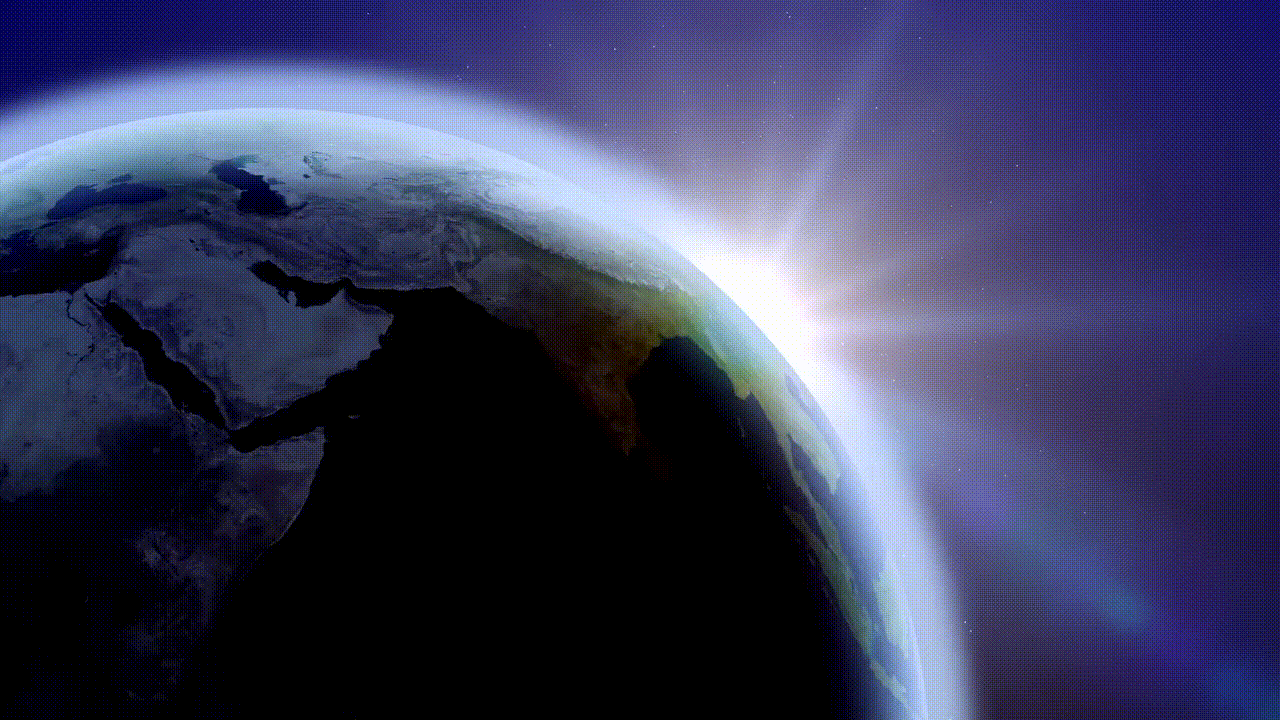
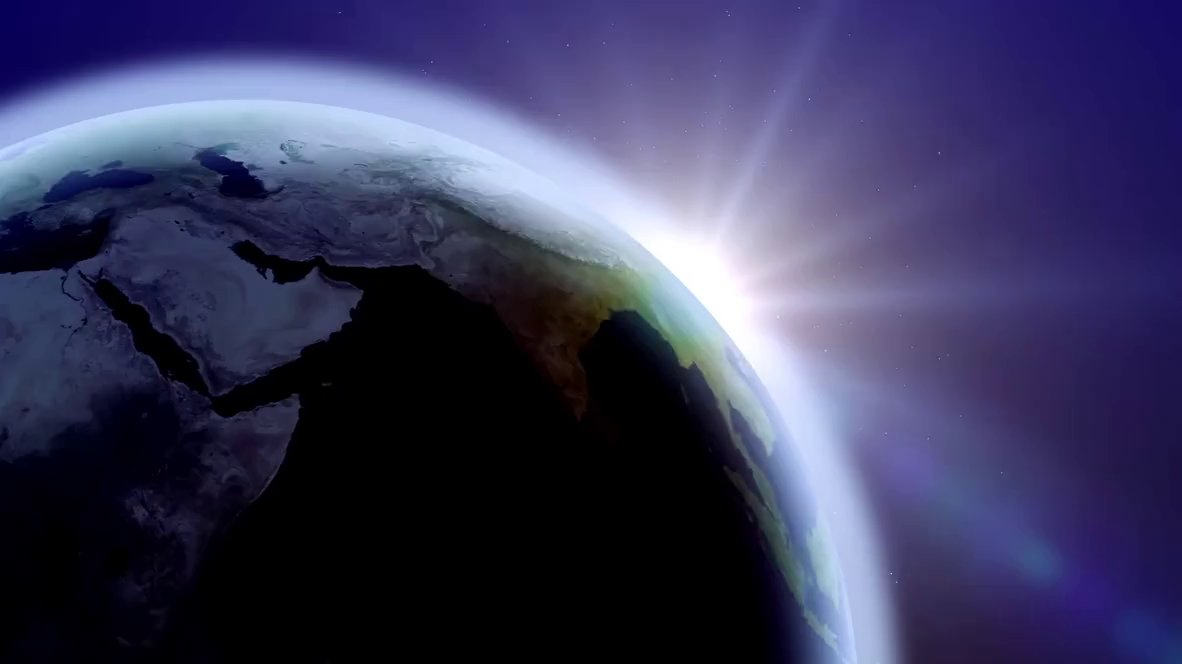
Add files via upload

diff --git a/data.js b/data.js
@@ -1,1 +1,1 @@
-{"project": [null,"Main Menu",[[0,true,false,false,false,false,false,false,false,false],[1,true,false,false,false,false,false,false,false,false],[2,true,false,false,false,false,false,false,false,false],[3,true,false,false,false,false,false,false,false,false],[4,true,false,false,false,false,false,false,false,false],[5,true,false,false,false,false,false,false,false,false],[6,false,true,true,true,false,false,false,false,false],[7,true,false,false,false,false,false,false,false,false],[8,false,true,true,true,true,true,true,true,false],[9,false,true,true,true,true,true,true,true,false],[10,false,true,true,true,false,false,false,false,false],[11,false,true,true,true,false,true,true,true,false],[12,true,false,false,false,false,false,false,false,false]],[["t0",8,false,[],0,1,null,[["Default",0,false,1,0,false,741092340785894,[["images/button-sheet0.png",587,1,1,190,49,1,0.5,0.5102040767669678,[],[],0],["images/button-sheet0.png",587,1,52,190,45,1,0.5,0.5111111402511597,[],[],0]]]],[],false,false,584967664289443,[["setcolor","SetColor"]],null],["t1",6,false,[],0,0,null,null,[],false,false,757775316178213,[],null],["t2",9,false,[],0,0,null,null,[],false,false,987185213327943,[],null],["t3",9,false,[],0,0,null,null,[],false,false,593391462758347,[],null],["t4",9,false,[],0,0,null,null,[],false,false,971201185744856,[],null],["t5",9,false,[],0,0,null,null,[],false,false,612195552797613,[],null],["t6",9,false,[],0,0,null,null,[],false,false,994427429284400,[],null],["t7",9,false,[],0,0,null,null,[],false,false,448144511183350,[],null],["t8",9,false,[],0,0,null,null,[],false,false,519139574354016,[],null],["t9",9,false,[],0,0,null,null,[],false,false,136965861650801,[],null],["t10",9,false,[],0,0,null,null,[],false,false,843298887735213,[],null],["t11",9,false,[],0,0,null,null,[],false,false,183655065565862,[],null],["t12",9,false,[],0,0,null,null,[],false,false,621512271099904,[],null],["t13",9,false,[],0,0,null,null,[],false,false,732458869924326,[],null],["t14",11,false,[],0,0,null,null,[],false,false,679916228430960,[],null],["t15",11,false,[],0,0,null,null,[],false,false,890391631155020,[],null],["t16",1,false,[],0,0,null,null,[],false,false,156296086548152,[],null,[0,0,0,1,1,600,600,10000,1]],["t17",7,false,[],0,0,null,null,[],false,false,377145541952307,[],null,[]],["t18",3,false,[],0,0,null,null,[],false,false,520424225427235,[],null,[]],["t19",2,false,[],0,0,null,null,[],false,false,197373338401167,[],null,[]],["t20",8,false,[],0,0,null,[["Default",5,false,1,0,false,895525082583206,[["images/menubackground-sheet0.png",11852,0,0,1280,1280,1,0.5,0.5,[],[-0.4945312440395355,-0.4945312440395355,0.4929689764976502,-0.492968738079071,0.4937499761581421,0.4937499761581421,-0.4937500059604645,0.4937499761581421],0]]]],[],false,false,562637304899072,[],null],["t21",10,false,[],0,0,null,null,[],false,false,296326276283547,[],null],["t22",10,false,[],0,0,null,null,[],false,false,385066265029369,[],null],["t23",8,false,[],0,0,null,[["Default",5,false,1,0,false,666810576614864,[["images/player-sheet0.png",64551,0,0,343,383,1,0.5014577507972717,0.5013054609298706,[],[-0.1107867658138275,-0.151436448097229,-0.002915740013122559,-0.3524804711341858,0.1341102719306946,-0.174934446811676,0.4198252558708191,-0.002610474824905396,0.387755274772644,0.3994775414466858,-0.002915740013122559,0.4203655123710632,-0.3673467636108398,0.3785905241966248,-0.4052478671073914,-0.002610474824905396],0]]]],[],false,false,775285204150088,[],null],["t24",8,false,[],0,0,null,[["Default",5,false,1,0,false,200995296118119,[["images/cursor-sheet0.png",1906,0,0,33,31,1,0.4848484992980957,0.4516128897666931,[],[-0.1060164868831635,-0.1549738943576813,-0.001413494348526001,-0.3625032007694244,0.1314594745635986,-0.1792298853397369,0.408516526222229,-0.001346886157989502,0.3774185180664063,0.4137111306190491,-0.001413494348526001,0.4352731108665466,-0.3548015058040619,0.3921511173248291,-0.3915541172027588,-0.001346886157989502],0]]]],[],false,false,493406556374796,[],null],["t25",9,false,[],0,2,null,null,[],false,false,149190345186834,[["glowhorizontal","GlowHorizontal"],["glowvertical","GlowVertical"]],null],["t26",8,false,[],0,0,null,[["Default",5,false,1,0,false,449500476032870,[["images/title-sheet0.png",18723,0,0,640,76,1,0.5,0.5,[],[-0.4742187857627869,-0.2828949987888336,0.4914060235023499,-0.4276316165924072,0.4914060235023499,0.4276319742202759,-0.5,0.5],0]]]],[],false,false,664850035557590,[],null],["t27",12,false,[],0,0,null,null,[],false,false,768069623347120,[],null,[0]],["t28",4,false,[],0,0,null,null,[],false,false,783837852095417,[],null,[]],["t29",5,false,[],0,0,null,null,[],false,false,342530095195853,[],null,[25]],["t30",0,false,[],0,0,null,null,[],false,false,254967698956649,[],null,[]],["t31",9,true,[],0,0,null,null,[],false,false,760463930764342,[],null],["t32",9,true,[],0,0,null,null,[],false,false,455207575529761,[],null],["t33",9,true,[],0,2,null,null,[],false,false,811197225495572,[["glowhorizontal","GlowHorizontal"],["glowvertical","GlowVertical"]],null]],[[31,2,10,11,7,8,9,3,12,4,5,6],[32,2,3,4,5],[33,10,12,6]],[["Main Menu",1280,720,false,"Main Menu Events",764398338772809,[["Video",0,681089752325442,true,[255,255,255],true,0,0,1,false,false,1,0,0,[[[0,0,0,1280,720,0,0,1,0,0,0,0,[]],14,0,[],[],["","","https://fpdl.vimeocdn.com/vimeo-prod-skyfire-std-us/01/1757/7/183786499/604916434.mp4?token=58474ed2_0x0756aaf1f1bb45634cfd53f62c5f16856a64c8d3",2,0,1]]],[]],["Buttons",1,502345996288287,true,[255,255,255],true,0,0,1,false,false,1,0,0,[[[150,393,0,190,49,0,0,1,0.5,0.5102040767669678,0,0,[[1,0,0]]],0,3,[],[],[0,"Default",0,1]],[[150,475,0,190,49,0,0,1,0.5,0.5102040767669678,0,0,[[1,0,0]]],0,5,[],[],[0,"Default",0,1]],[[150,561,0,190,49,0,0,1,0.5,0.5102040767669678,0,0,[[1,0,0]]],0,7,[],[],[0,"Default",0,1]],[[150,647,0,190,49,0,0,1,0.5,0.5102040767669678,0,0,[[0.5,0.5,0.5]]],0,8,[],[],[0,"Default",0,1]]],[]],["Button Text",2,212621257331432,true,[255,255,255],true,0,0,1,false,false,1,0,0,[[[150,392,0,194,48,0,0,1,0.5,0.5,0,0,[]],3,4,[],[],["PLAY",0,"18pt Arial","rgb(0,0,0)",1,1,4,0,0]],[[150,474.5,0,188,48,0,0,1,0.5,0.5,0,0,[]],5,6,[],[],["SETTINGS",0,"18pt Arial","rgb(0,0,0)",1,1,4,0,0]],[[150,561,0,189,46,0,0,1,0.5,0.5,0,0,[]],2,9,[],[],["CREDITS",0,"18pt Arial","rgb(0,0,0)",1,1,4,0,0]],[[150,647.5,0,188,47,0,0,1,0.5,0.5,0,0,[]],4,10,[],[],["QUIT",0,"18pt Arial","rgb(0,0,0)",1,1,4,0,0]]],[]],["Title",3,777833340380022,true,[255,255,255],true,0,0,1,false,false,1,0,0,[[[350,73,0,367.68408203125,43.66248321533203,0,0,1,0.5,0.5,0,0,[]],26,1,[],[],[0,"Default",0,1]]],[]],["Menu Background",4,867994166598679,false,[255,255,255],true,0,0,1,false,false,1,0,0,[[[761.947265625,362.5,0,986,667,0,0,1,0.5,0.5,0,0,[]],20,12,[],[],[0,"Default",0,1]]],[]],["Credits Buttons",5,536391325661122,false,[255,255,255],true,0,0,1,false,false,1,0,0,[],[]],["Credits Text",6,194548016113725,false,[255,255,255],true,0,0,1,false,false,1,0,0,[[[763.5,398.5,0,916,523,0,0,1,0.5,0.5,0,0,[]],8,19,[],[],["\"Unconquered Sun\" by The Freeharmonic Orchestra, from the Free Music Archive, CC BY 4.0",0,"18pt Arial","rgb(0,255,255)",0,0,4,0,0]],[[754,79.5,0,975,96,0,0,1,0.5,0.5,0,0,[[1],[1]]],10,20,[],[],["CREDITS",0,"48pt Arial","rgb(0,255,255)",1,1,4,0,0]]],[]],["Settings Buttons",7,560161867385217,false,[255,255,255],true,0,0,1,false,false,1,0,0,[[[826,134,0,401,38,0,0,1,0,0,0,0,[]],21,14,[],[],[0,-50,0,1,"",1,1,""]],[[826,192,0,401,35,0,0,1,0,0,0,0,[]],22,16,[],[],[0,-50,0,1,"",1,1,""]],[[828,251,0,398,27,0,0,1,0,0,0,0,[]],1,27,[],[],["Low Quality; High Quality","",1,1,1,0,1,""]]],[]],["Settings Text",8,902906742952181,false,[255,255,255],true,0,0,1,false,false,1,0,0,[[[576,154,0,463,37,0,0,1,0.5,0.5,0,0,[]],7,15,[],[],["Master Sound",0,"18pt Arial","rgb(0,255,255)",0,1,4,0,0]],[[574.5,213,0,460,43,0,0,1,0.5,0.5,0,0,[]],9,17,[],[],["Music",0,"18pt Arial","rgb(0,255,255)",0,1,4,0,0]],[[574,265,0,463,36,0,0,1,0.5,0.5,0,0,[]],13,26,[],[],["Upscale Quality",0,"18pt Arial","rgb(0,255,255)",0,1,4,0,0]]],[]],["Settings UI",9,111731461887782,false,[255,255,255],true,0,0,1,false,false,1,0,0,[[[755.5,78,0,977,92,0,0,1,0.5,0.5,0,0,[[1],[1]]],6,13,[],[],["SETTINGS",0,"48pt Arial","rgb(0,255,255)",1,1,4,0,0]]],[]],["Play",10,289455529003252,false,[255,255,255],true,0,0,1,false,false,1,0,0,[[[756,357.5,0,978,647,0,0,1,0.5,0.5,0,0,[]],11,21,[],[],["This Feature is still in development!",0,"48pt Arial","rgb(0,255,255)",1,1,4,0,0]],[[756.5,81,0,977,94,0,0,1,0.5,0.5,0,0,[[1],[1]]],12,22,[],[],["PLAY",0,"48pt Arial","rgb(0,255,255)",1,1,4,0,0]],[[1286,-82,0,33,31,0,0,1,0.4848484992980957,0.4516128897666931,0,0,[]],24,24,[],[],[0,"Default",0,1]]],[]]],[],[]],["Loading",1280,720,false,"Loading Events",186871997165424,[["Video",0,646960683364867,true,[255,255,255],false,1,1,1,false,false,1,0,0,[[[0,0,0,1280,720,0,0,1,0,0,0,0,[]],15,25,[],[],["","","LoadingVideo.mp4",2,0,1]]],[]],["Text",1,267344958789471,true,[255,255,255],true,1,1,1,false,false,1,0,0,[[[641,358,0,486,157,0,0,1,0.5,0.5,0,0,[[1],[1]]],25,28,[],[],["LOADING",0,"72pt Arial","rgb(0,255,255)",1,1,4,0,0]]],[]]],[],[]]],[["Main Menu Events",[[1,"TitleScale",0,0.8,false,false,769267226489413,false],[1,"TitleAdd",0,0.005,false,false,620345288775101,false],[2,"Settings Menu",false],[0,null,false,null,759430886101808,[[-1,13,null,1,false,false,false,544475208102868,false]],[[19,14,null,459364724379817,false,[[3,1]]],[14,15,null,326455400447135,false,[[3,1]]],[16,16,null,777740934932962,false,[[2,["the_freeharmonic_orchestra_-_08_-_unconquered_sun",true]],[3,1],[0,[0,0]],[1,[2,"MainMenuMusic"]]]],[17,17,null,498679691315872,false,[[4,24]]],[0,18,null,473257114356142,false,[[3,0],[1,[2,"SetColor"]]]]],[[0,null,true,null,494252969857412,[[-1,19,null,0,false,false,false,892394931321952,false,[[3,13]]],[-1,19,null,0,false,false,false,221316946555954,false,[[3,10]]]],[[14,20,null,504605865951047,false,[[1,[2,""]],[1,[2,""]],[1,[2,"MainMenuBackground.mp4"]]]]],[[0,null,false,null,919389049080450,[[0,21,null,0,false,false,true,943530358906410,false,[[0,[0,8]]]]],[[0,18,null,224481973623091,false,[[3,0],[1,[2,"SetColor"]]]]]]]],[0,null,false,null,754189749883803,[[-1,22,null,0,false,false,false,560383329988711,false]],[],[[0,null,false,null,123325543471990,[[0,21,null,0,false,false,true,925497765884197,false,[[0,[0,8]]]]],[[0,18,null,146306368033424,false,[[3,1],[1,[2,"SetColor"]]]]]]]],[0,null,false,null,416436087597561,[[-1,19,null,0,false,false,false,563000243723772,false,[[3,0]]]],[[14,20,null,410054418395667,false,[[1,[2,""]],[1,[2,""]],[1,[2,"https://fpdl.vimeocdn.com/vimeo-prod-skyfire-std-us/01/1757/7/183786499/604916434.mp4?token=58474ed2_0x0756aaf1f1bb45634cfd53f62c5f16856a64c8d3"]]]]]]]],[0,null,false,null,875718847313111,[[17,23,null,1,false,false,false,311080919117245,false,[[3,0],[3,0],[4,0]]]],[[0,24,null,994500804553088,false,[[0,[0,1]]]],[-1,25,null,555616442603086,false,[[0,[1,0.2]]]],[0,24,null,204610533894794,false,[[0,[0,0]]]]]],[0,null,true,null,725099792689438,[[17,23,null,1,false,false,false,825880661116933,false,[[3,0],[3,0],[4,5]]],[27,26,null,1,false,false,false,982332207364420,false,[[4,5]]]],[],[[0,null,false,null,645595906571330,[[5,27,null,0,false,false,false,421952272824194,false]],[],[[0,null,false,null,831589629177205,[[-1,28,null,0,false,true,false,488167673610202,false,[[5,[0,8]]]]],[[18,29,null,718131713430374,false,[[1,[2,"ShowSettings"]],[13]]]],[[0,null,false,null,460593508403332,[[-1,30,null,0,true,false,false,343235788165916,false,[[4,0]]]],[[0,31,null,667073095303741,false,[[0,[0,1]]]]],[[0,null,false,null,206568262787912,[[0,21,null,0,false,false,true,430344232414102,false,[[0,[0,5]]]]],[[0,31,null,221665895965101,false,[[0,[1,1.2]]]]]]]]]],[0,null,false,null,103953948065502,[[-1,22,null,0,false,false,false,951804389128942,false]],[[18,29,null,935878645402464,false,[[1,[2,"HideAll"]],[13]]]]]]]]],[0,null,true,null,461725425790166,[[17,23,null,1,false,false,false,287296514746981,false,[[3,0],[3,0],[4,2]]],[27,26,null,1,false,false,false,990583090571443,false,[[4,2]]]],[],[[0,null,false,null,199032386628428,[[2,27,null,0,false,false,false,873273507215792,false]],[],[[0,null,false,null,477562399344820,[[-1,28,null,0,false,true,false,356406949946279,false,[[5,[0,6]]]]],[[18,29,null,787217337977360,false,[[1,[2,"ShowCredits"]],[13]]]],[[0,null,false,null,792594094994203,[[-1,30,null,0,true,false,false,973230912265364,false,[[4,0]]]],[[0,31,null,264751563056437,false,[[0,[0,1]]]]],[[0,null,false,null,802539177481989,[[0,21,null,0,false,false,true,719626880917220,false,[[0,[0,7]]]]],[[0,31,null,154403100249147,false,[[0,[1,1.2]]]]]]]]]],[0,null,false,null,858201097998780,[[-1,22,null,0,false,false,false,425961523698400,false]],[[18,29,null,176721184926702,false,[[1,[2,"HideAll"]],[13]]]]]]]]],[0,null,true,null,282099935486114,[[17,23,null,1,false,false,false,886074504252574,false,[[3,0],[3,0],[4,3]]],[27,26,null,1,false,false,false,674256613486658,false,[[4,3]]]],[],[[0,null,false,null,661922992092199,[[3,27,null,0,false,false,false,729192026598743,false]],[],[[0,null,false,null,884385292469911,[[-1,28,null,0,false,true,false,351350808930293,false,[[5,[0,10]]]]],[[18,29,null,629593311091908,false,[[1,[2,"ShowPlay"]],[13]]]],[[0,null,false,null,311535644832366,[[-1,30,null,0,true,false,false,857207518825899,false,[[4,0]]]],[[0,31,null,172751978641655,false,[[0,[0,1]]]]],[[0,null,false,null,343352428899467,[[0,21,null,0,false,false,true,841760785779679,false,[[0,[0,3]]]]],[[0,31,null,892747376681533,false,[[0,[1,1.2]]]]]]]]]],[0,null,false,null,594882902744155,[[-1,22,null,0,false,false,false,799888771450329,false]],[[18,29,null,255795452602287,false,[[1,[2,"HideAll"]],[13]]]]]]]]],[0,null,false,null,832359708821034,[[18,32,null,2,false,false,false,231833727056088,false,[[1,[2,"HideAll"]]]]],[[-1,33,null,656742220006975,false,[[5,[0,3]],[3,1]]],[-1,33,null,658746056700623,false,[[5,[0,4]],[3,0]]],[-1,33,null,999246614127048,false,[[5,[0,5]],[3,0]]],[-1,33,null,175947810478879,false,[[5,[0,6]],[3,0]]],[-1,33,null,966814488506098,false,[[5,[0,7]],[3,0]]],[-1,33,null,918551936042421,false,[[5,[0,8]],[3,0]]],[-1,33,null,828701944229879,false,[[5,[0,9]],[3,0]]],[-1,33,null,858389467469655,false,[[5,[0,10]],[3,0]]]],[[0,null,false,null,886908999198785,[[-1,30,null,0,true,false,false,667447424520275,false,[[4,0]]]],[[0,31,null,389762762671656,false,[[0,[0,1]]]]]]]],[0,null,false,null,945271136039663,[[18,32,null,2,false,false,false,176654090041426,false,[[1,[2,"ShowSettings"]]]]],[[-1,33,null,176128179254471,false,[[5,[0,3]],[3,0]]],[-1,33,null,155624652009751,false,[[5,[0,4]],[3,1]]],[-1,33,null,801469296886027,false,[[5,[0,5]],[3,0]]],[-1,33,null,411291875996744,false,[[5,[0,6]],[3,0]]],[-1,33,null,134989234400402,false,[[5,[0,7]],[3,1]]],[-1,33,null,193823574562830,false,[[5,[0,8]],[3,1]]],[-1,33,null,831827086769408,false,[[5,[0,9]],[3,1]]],[-1,33,null,370138196454280,false,[[5,[0,10]],[3,0]]]]],[0,null,false,null,670960873438713,[[18,32,null,2,false,false,false,850103761712928,false,[[1,[2,"ShowCredits"]]]]],[[-1,33,null,564276672739795,false,[[5,[0,3]],[3,0]]],[-1,33,null,930322067163226,false,[[5,[0,4]],[3,1]]],[-1,33,null,510222822510176,false,[[5,[0,5]],[3,1]]],[-1,33,null,517252076243978,false,[[5,[0,6]],[3,1]]],[-1,33,null,278708172347896,false,[[5,[0,7]],[3,0]]],[-1,33,null,274692724550537,false,[[5,[0,8]],[3,0]]],[-1,33,null,674255125991444,false,[[5,[0,9]],[3,0]]],[-1,33,null,671294554125984,false,[[5,[0,10]],[3,0]]]]],[0,null,false,null,830099097049156,[[18,32,null,2,false,false,false,728463148238469,false,[[1,[2,"ShowPlay"]]]]],[[-1,33,null,372349657833389,false,[[5,[0,3]],[3,0]]],[-1,33,null,305626802263084,false,[[5,[0,4]],[3,1]]],[-1,33,null,222865476633134,false,[[5,[0,5]],[3,0]]],[-1,33,null,643148281680027,false,[[5,[0,6]],[3,0]]],[-1,33,null,102880095179765,false,[[5,[0,7]],[3,0]]],[-1,33,null,939156922537003,false,[[5,[0,8]],[3,0]]],[-1,33,null,564418108681039,false,[[5,[0,9]],[3,0]]],[-1,33,null,102099363762646,false,[[5,[0,10]],[3,1]]]]],[0,null,false,null,122131665530519,[[17,23,null,1,false,false,false,114112741608828,false,[[3,0],[3,0],[4,4]]],[4,27,null,0,false,false,false,966429318518976,false]],[],[[0,null,true,null,415588888418075,[[-1,19,null,0,false,false,false,824493318245683,false,[[3,10]]],[-1,19,null,0,false,false,false,859758659744385,false,[[3,13]]]],[[19,34,null,249915559523820,false]]]]],[0,null,false,null,760098769438856,[[-1,35,null,0,false,false,false,952400784024767,false]],[[-1,36,null,523497278971302,false,[[11,"TitleScale"],[7,[23,"TitleAdd"]]]],[26,31,null,388219029189658,false,[[0,[23,"TitleScale"]]]]],[[0,null,false,null,205827788868243,[[-1,37,null,0,false,false,false,334432047639861,false,[[7,[23,"TitleScale"]],[8,3],[7,[1,0.8]]]]],[[-1,38,null,957623960442285,false,[[11,"TitleAdd"],[7,[1,0.005]]]]]],[0,null,false,null,978854688859669,[[-1,37,null,0,false,false,false,976203740874792,false,[[7,[23,"TitleScale"]],[8,5],[7,[0,1]]]]],[[-1,38,null,302749127020334,false,[[11,"TitleAdd"],[7,[1,-0.005]]]]]]]],[0,null,false,null,950059753975558,[[19,39,null,0,false,false,false,759234924927530,false,[[3,0]]]],[[19,14,null,275843510182720,false,[[3,1]]]]]]],["Settings Menu",[[0,null,false,null,877893070356298,[[-1,13,null,1,false,false,false,924955388441991,false]],[[21,40,null,590248520391674,false,[[0,[19,41,[[20,16,42,false,null]]]]]],[22,40,null,516968278446018,false,[[0,[19,41,[[20,16,43,false,null,[[2,"MainMenuMusic"]]]]]]]],[1,44,null,698427170934070,false,[[0,[0,1]]]]]],[0,null,false,null,292200291677790,[[21,45,null,1,false,false,false,116818096769655,false]],[[16,46,null,937705002726422,false,[[0,[19,41,[[20,21,47,false,null]]]]]]]],[0,null,false,null,179987397990844,[[22,45,null,1,false,false,false,529463352864946,false]],[[16,48,null,971861697089136,false,[[1,[2,"MainMenuMusic"]],[0,[19,41,[[20,22,47,false,null]]]]]]]],[0,null,false,null,846052522756737,[[1,49,null,1,false,false,false,354250409084670,false]],[],[[0,null,false,null,670188115715605,[[1,50,null,0,false,false,false,573719306726947,false,[[8,0],[0,[0,0]]]]],[[-1,51,null,544950865722327,false,[[3,0]]]]],[0,null,false,null,474008683320245,[[1,50,null,0,false,false,false,994487472061880,false,[[8,0],[0,[0,1]]]]],[[-1,51,null,692646355888390,false,[[3,1]]]]]]]]],["Loading Events",[[0,null,false,null,487580043278326,[[-1,13,null,1,false,false,false,383662561195685,false]],[[15,52,null,969410057183294,false,[[0,[0,24]]]]]],[0,null,false,null,399171819645039,[[15,53,null,0,false,false,false,615031831947974,false]],[[-1,54,null,240406389754983,false,[[6,"Main Menu"]]]]]]]],[],"media/",false,1280,720,4,true,true,true,"1.0.0.0",true,false,0,2,33,true,true,1,true,"Alien Wars",0,[]]}
+{"project": [null,"Main Menu",[[0,true,false,false,false,false,false,false,false,false],[1,true,false,false,false,false,false,false,false,false],[2,true,false,false,false,false,false,false,false,false],[3,true,false,false,false,false,false,false,false,false],[4,true,false,false,false,false,false,false,false,false],[5,true,false,false,false,false,false,false,false,false],[6,false,true,true,true,false,false,false,false,false],[7,true,false,false,false,false,false,false,false,false],[8,false,true,true,true,true,true,true,true,false],[9,false,true,true,true,true,true,true,true,false],[10,false,true,true,true,false,false,false,false,false],[11,false,true,true,true,false,true,true,true,false],[12,true,false,false,false,false,false,false,false,false]],[["t0",8,false,[],0,1,null,[["Default",0,false,1,0,false,741092340785894,[["images/button-sheet0.png",587,1,1,190,49,1,0.5,0.5102040767669678,[],[],0],["images/button-sheet0.png",587,1,52,190,45,1,0.5,0.5111111402511597,[],[],0]]]],[],false,false,584967664289443,[["setcolor","SetColor"]],null],["t1",6,false,[],0,0,null,null,[],false,false,757775316178213,[],null],["t2",9,false,[],0,0,null,null,[],false,false,987185213327943,[],null],["t3",9,false,[],0,0,null,null,[],false,false,593391462758347,[],null],["t4",9,false,[],0,0,null,null,[],false,false,971201185744856,[],null],["t5",9,false,[],0,0,null,null,[],false,false,612195552797613,[],null],["t6",9,false,[],0,0,null,null,[],false,false,994427429284400,[],null],["t7",9,false,[],0,0,null,null,[],false,false,448144511183350,[],null],["t8",9,false,[],0,0,null,null,[],false,false,519139574354016,[],null],["t9",9,false,[],0,0,null,null,[],false,false,136965861650801,[],null],["t10",9,false,[],0,0,null,null,[],false,false,843298887735213,[],null],["t11",9,false,[],0,0,null,null,[],false,false,183655065565862,[],null],["t12",9,false,[],0,0,null,null,[],false,false,621512271099904,[],null],["t13",9,false,[],0,0,null,null,[],false,false,732458869924326,[],null],["t14",11,false,[],0,0,null,null,[],false,false,679916228430960,[],null],["t15",11,false,[],0,0,null,null,[],false,false,890391631155020,[],null],["t16",1,false,[],0,0,null,null,[],false,false,156296086548152,[],null,[0,0,0,1,1,600,600,10000,1]],["t17",7,false,[],0,0,null,null,[],false,false,377145541952307,[],null,[]],["t18",3,false,[],0,0,null,null,[],false,false,520424225427235,[],null,[]],["t19",2,false,[],0,0,null,null,[],false,false,197373338401167,[],null,[]],["t20",8,false,[],0,0,null,[["Default",5,false,1,0,false,895525082583206,[["images/menubackground-sheet0.png",11852,0,0,1280,1280,1,0.5,0.5,[],[-0.4945312440395355,-0.4945312440395355,0.4929689764976502,-0.492968738079071,0.4937499761581421,0.4937499761581421,-0.4937500059604645,0.4937499761581421],0]]]],[],false,false,562637304899072,[],null],["t21",10,false,[],0,0,null,null,[],false,false,296326276283547,[],null],["t22",10,false,[],0,0,null,null,[],false,false,385066265029369,[],null],["t23",8,false,[],0,0,null,[["Default",5,false,1,0,false,666810576614864,[["images/player-sheet0.png",64551,0,0,343,383,1,0.5014577507972717,0.5013054609298706,[],[-0.1107867658138275,-0.151436448097229,-0.002915740013122559,-0.3524804711341858,0.1341102719306946,-0.174934446811676,0.4198252558708191,-0.002610474824905396,0.387755274772644,0.3994775414466858,-0.002915740013122559,0.4203655123710632,-0.3673467636108398,0.3785905241966248,-0.4052478671073914,-0.002610474824905396],0]]]],[],false,false,775285204150088,[],null],["t24",8,false,[],0,0,null,[["Default",5,false,1,0,false,200995296118119,[["images/cursor-sheet0.png",1906,0,0,33,31,1,0.4848484992980957,0.4516128897666931,[],[-0.1060164868831635,-0.1549738943576813,-0.001413494348526001,-0.3625032007694244,0.1314594745635986,-0.1792298853397369,0.408516526222229,-0.001346886157989502,0.3774185180664063,0.4137111306190491,-0.001413494348526001,0.4352731108665466,-0.3548015058040619,0.3921511173248291,-0.3915541172027588,-0.001346886157989502],0]]]],[],false,false,493406556374796,[],null],["t25",9,false,[],0,2,null,null,[],false,false,149190345186834,[["glowhorizontal","GlowHorizontal"],["glowvertical","GlowVertical"]],null],["t26",8,false,[],0,0,null,[["Default",5,false,1,0,false,449500476032870,[["images/title-sheet0.png",18723,0,0,640,76,1,0.5,0.5,[],[-0.4742187857627869,-0.2828949987888336,0.4914060235023499,-0.4276316165924072,0.4914060235023499,0.4276319742202759,-0.5,0.5],0]]]],[],false,false,664850035557590,[],null],["t27",12,false,[],0,0,null,null,[],false,false,768069623347120,[],null,[0]],["t28",4,false,[],0,0,null,null,[],false,false,783837852095417,[],null,[]],["t29",5,false,[],0,0,null,null,[],false,false,342530095195853,[],null,[25]],["t30",0,false,[],0,0,null,null,[],false,false,254967698956649,[],null,[]],["t31",8,false,[],0,0,null,[["Default",5,false,1,0,false,662755418398555,[["images/background-sheet0.png",366853,0,0,1182,664,1,0.5,0.5,[],[],1]]]],[],false,false,509635501805138,[],null],["t32",9,true,[],0,0,null,null,[],false,false,760463930764342,[],null],["t33",9,true,[],0,0,null,null,[],false,false,455207575529761,[],null],["t34",9,true,[],0,2,null,null,[],false,false,811197225495572,[["glowhorizontal","GlowHorizontal"],["glowvertical","GlowVertical"]],null]],[[32,2,10,11,7,8,9,3,12,4,5,6],[33,2,3,4,5],[34,10,12,6]],[["Main Menu",1280,720,false,"Main Menu Events",764398338772809,[["Video",0,681089752325442,true,[255,255,255],true,0,0,1,false,false,1,0,0,[[[640.5,361,0,1285,724,0,0,1,0.5,0.5,0,0,[]],31,33,[],[],[0,"Default",0,1]],[[0,0,0,1280,720,0,0,1,0,0,0,0,[]],14,0,[],[],["","","https://fpdl.vimeocdn.com/vimeo-prod-skyfire-std-us/01/1757/7/183786499/604916434.mp4?token=58474ed2_0x0756aaf1f1bb45634cfd53f62c5f16856a64c8d3",2,0,1]]],[]],["Buttons",1,502345996288287,true,[255,255,255],true,0,0,1,false,false,1,0,0,[[[150,393,0,190,49,0,0,1,0.5,0.5102040767669678,0,0,[[1,0,0]]],0,3,[],[],[0,"Default",0,1]],[[150,475,0,190,49,0,0,1,0.5,0.5102040767669678,0,0,[[1,0,0]]],0,5,[],[],[0,"Default",0,1]],[[150,561,0,190,49,0,0,1,0.5,0.5102040767669678,0,0,[[1,0,0]]],0,7,[],[],[0,"Default",0,1]],[[150,647,0,190,49,0,0,1,0.5,0.5102040767669678,0,0,[[0.5,0.5,0.5]]],0,8,[],[],[0,"Default",0,1]]],[]],["Button Text",2,212621257331432,true,[255,255,255],true,0,0,1,false,false,1,0,0,[[[150,392,0,194,48,0,0,1,0.5,0.5,0,0,[]],3,4,[],[],["PLAY",0,"18pt Arial","rgb(0,0,0)",1,1,4,0,0]],[[150,474.5,0,188,48,0,0,1,0.5,0.5,0,0,[]],5,6,[],[],["SETTINGS",0,"18pt Arial","rgb(0,0,0)",1,1,4,0,0]],[[150,561,0,189,46,0,0,1,0.5,0.5,0,0,[]],2,9,[],[],["CREDITS",0,"18pt Arial","rgb(0,0,0)",1,1,4,0,0]],[[150,647.5,0,188,47,0,0,1,0.5,0.5,0,0,[]],4,10,[],[],["QUIT",0,"18pt Arial","rgb(0,0,0)",1,1,4,0,0]]],[]],["Title",3,777833340380022,true,[255,255,255],true,0,0,1,false,false,1,0,0,[[[350,73,0,367.68408203125,43.66248321533203,0,0,1,0.5,0.5,0,0,[]],26,1,[],[],[0,"Default",0,1]]],[]],["Menu Background",4,867994166598679,false,[255,255,255],true,0,0,1,false,false,1,0,0,[[[761.947265625,362.5,0,986,667,0,0,1,0.5,0.5,0,0,[]],20,12,[],[],[0,"Default",0,1]]],[]],["Credits Buttons",5,536391325661122,false,[255,255,255],true,0,0,1,false,false,1,0,0,[],[]],["Credits Text",6,194548016113725,false,[255,255,255],true,0,0,1,false,false,1,0,0,[[[763.5,398.5,0,916,523,0,0,1,0.5,0.5,0,0,[]],8,19,[],[],["\"Unconquered Sun\" by The Freeharmonic Orchestra, from the Free Music Archive, CC BY 4.0",0,"18pt Arial","rgb(0,255,255)",0,0,4,0,0]],[[754,79.5,0,975,96,0,0,1,0.5,0.5,0,0,[[1],[1]]],10,20,[],[],["CREDITS",0,"48pt Arial","rgb(0,255,255)",1,1,4,0,0]]],[]],["Settings Buttons",7,560161867385217,false,[255,255,255],true,0,0,1,false,false,1,0,0,[[[826,134,0,401,38,0,0,1,0,0,0,0,[]],21,14,[],[],[0,-50,0,1,"",1,1,""]],[[826,192,0,401,35,0,0,1,0,0,0,0,[]],22,16,[],[],[0,-50,0,1,"",1,1,""]],[[828,251,0,398,27,0,0,1,0,0,0,0,[]],1,27,[],[],["Low Quality; High Quality","",1,1,1,0,1,""]]],[]],["Settings Text",8,902906742952181,false,[255,255,255],true,0,0,1,false,false,1,0,0,[[[576,154,0,463,37,0,0,1,0.5,0.5,0,0,[]],7,15,[],[],["Master Sound",0,"18pt Arial","rgb(0,255,255)",0,1,4,0,0]],[[574.5,213,0,460,43,0,0,1,0.5,0.5,0,0,[]],9,17,[],[],["Music",0,"18pt Arial","rgb(0,255,255)",0,1,4,0,0]],[[574,265,0,463,36,0,0,1,0.5,0.5,0,0,[]],13,26,[],[],["Upscale Quality",0,"18pt Arial","rgb(0,255,255)",0,1,4,0,0]]],[]],["Settings UI",9,111731461887782,false,[255,255,255],true,0,0,1,false,false,1,0,0,[[[755.5,78,0,977,92,0,0,1,0.5,0.5,0,0,[[1],[1]]],6,13,[],[],["SETTINGS",0,"48pt Arial","rgb(0,255,255)",1,1,4,0,0]]],[]],["Play",10,289455529003252,false,[255,255,255],true,0,0,1,false,false,1,0,0,[[[756,357.5,0,978,647,0,0,1,0.5,0.5,0,0,[]],11,21,[],[],["This Feature is still in development!",0,"48pt Arial","rgb(0,255,255)",1,1,4,0,0]],[[756.5,81,0,977,94,0,0,1,0.5,0.5,0,0,[[1],[1]]],12,22,[],[],["PLAY",0,"48pt Arial","rgb(0,255,255)",1,1,4,0,0]],[[1286,-82,0,33,31,0,0,1,0.4848484992980957,0.4516128897666931,0,0,[]],24,24,[],[],[0,"Default",0,1]]],[]]],[],[]],["Loading",1280,720,false,"Loading Events",186871997165424,[["Video",0,646960683364867,true,[255,255,255],false,1,1,1,false,false,1,0,0,[[[0,0,0,1280,720,0,0,1,0,0,0,0,[]],15,25,[],[],["","","LoadingVideo.mp4",2,0,1]]],[]],["Text",1,267344958789471,true,[255,255,255],true,1,1,1,false,false,1,0,0,[[[641,358,0,486,157,0,0,1,0.5,0.5,0,0,[[1],[1]]],25,28,[],[],["LOADING",0,"72pt Arial","rgb(0,255,255)",1,1,4,0,0]]],[]]],[],[]]],[["Main Menu Events",[[1,"TitleScale",0,0.8,false,false,769267226489413,false],[1,"TitleAdd",0,0.005,false,false,620345288775101,false],[2,"Settings Menu",false],[0,null,false,null,759430886101808,[[-1,13,null,1,false,false,false,544475208102868,false]],[[19,14,null,459364724379817,false,[[3,1]]],[14,15,null,326455400447135,false,[[3,1]]],[16,16,null,777740934932962,false,[[2,["the_freeharmonic_orchestra_-_08_-_unconquered_sun",true]],[3,1],[0,[0,0]],[1,[2,"MainMenuMusic"]]]],[17,17,null,498679691315872,false,[[4,24]]],[0,18,null,473257114356142,false,[[3,0],[1,[2,"SetColor"]]]]],[[0,null,true,null,494252969857412,[[-1,19,null,0,false,false,false,892394931321952,false,[[3,13]]],[-1,19,null,0,false,false,false,221316946555954,false,[[3,10]]]],[[14,20,null,504605865951047,false,[[1,[2,""]],[1,[2,""]],[1,[2,"MainMenuBackground.mp4"]]]]],[[0,null,false,null,919389049080450,[[0,21,null,0,false,false,true,943530358906410,false,[[0,[0,8]]]]],[[0,18,null,224481973623091,false,[[3,0],[1,[2,"SetColor"]]]]]]]],[0,null,false,null,754189749883803,[[-1,22,null,0,false,false,false,560383329988711,false]],[],[[0,null,false,null,123325543471990,[[0,21,null,0,false,false,true,925497765884197,false,[[0,[0,8]]]]],[[0,18,null,146306368033424,false,[[3,1],[1,[2,"SetColor"]]]]]]]],[0,null,false,null,416436087597561,[[-1,19,null,0,false,false,false,563000243723772,false,[[3,0]]],[-1,19,null,0,false,true,false,668061249343733,false,[[3,1]]]],[[14,20,null,410054418395667,false,[[1,[2,""]],[1,[2,""]],[1,[2,"https://fpdl.vimeocdn.com/vimeo-prod-skyfire-std-us/01/1757/7/183786499/604916434.mp4?token=58474ed2_0x0756aaf1f1bb45634cfd53f62c5f16856a64c8d3"]]]]]]]],[0,null,false,null,875718847313111,[[17,23,null,1,false,false,false,311080919117245,false,[[3,0],[3,0],[4,0]]]],[[0,24,null,994500804553088,false,[[0,[0,1]]]],[-1,25,null,555616442603086,false,[[0,[1,0.2]]]],[0,24,null,204610533894794,false,[[0,[0,0]]]]]],[0,null,true,null,725099792689438,[[17,23,null,1,false,false,false,825880661116933,false,[[3,0],[3,0],[4,5]]],[27,26,null,1,false,false,false,982332207364420,false,[[4,5]]]],[],[[0,null,false,null,645595906571330,[[5,27,null,0,false,false,false,421952272824194,false]],[],[[0,null,false,null,831589629177205,[[-1,28,null,0,false,true,false,488167673610202,false,[[5,[0,8]]]]],[[18,29,null,718131713430374,false,[[1,[2,"ShowSettings"]],[13]]]],[[0,null,false,null,460593508403332,[[-1,30,null,0,true,false,false,343235788165916,false,[[4,0]]]],[[0,31,null,667073095303741,false,[[0,[0,1]]]]],[[0,null,false,null,206568262787912,[[0,21,null,0,false,false,true,430344232414102,false,[[0,[0,5]]]]],[[0,31,null,221665895965101,false,[[0,[1,1.2]]]]]]]]]],[0,null,false,null,103953948065502,[[-1,22,null,0,false,false,false,951804389128942,false]],[[18,29,null,935878645402464,false,[[1,[2,"HideAll"]],[13]]]]]]]]],[0,null,true,null,461725425790166,[[17,23,null,1,false,false,false,287296514746981,false,[[3,0],[3,0],[4,2]]],[27,26,null,1,false,false,false,990583090571443,false,[[4,2]]]],[],[[0,null,false,null,199032386628428,[[2,27,null,0,false,false,false,873273507215792,false]],[],[[0,null,false,null,477562399344820,[[-1,28,null,0,false,true,false,356406949946279,false,[[5,[0,6]]]]],[[18,29,null,787217337977360,false,[[1,[2,"ShowCredits"]],[13]]]],[[0,null,false,null,792594094994203,[[-1,30,null,0,true,false,false,973230912265364,false,[[4,0]]]],[[0,31,null,264751563056437,false,[[0,[0,1]]]]],[[0,null,false,null,802539177481989,[[0,21,null,0,false,false,true,719626880917220,false,[[0,[0,7]]]]],[[0,31,null,154403100249147,false,[[0,[1,1.2]]]]]]]]]],[0,null,false,null,858201097998780,[[-1,22,null,0,false,false,false,425961523698400,false]],[[18,29,null,176721184926702,false,[[1,[2,"HideAll"]],[13]]]]]]]]],[0,null,true,null,282099935486114,[[17,23,null,1,false,false,false,886074504252574,false,[[3,0],[3,0],[4,3]]],[27,26,null,1,false,false,false,674256613486658,false,[[4,3]]]],[],[[0,null,false,null,661922992092199,[[3,27,null,0,false,false,false,729192026598743,false]],[],[[0,null,false,null,884385292469911,[[-1,28,null,0,false,true,false,351350808930293,false,[[5,[0,10]]]]],[[18,29,null,629593311091908,false,[[1,[2,"ShowPlay"]],[13]]]],[[0,null,false,null,311535644832366,[[-1,30,null,0,true,false,false,857207518825899,false,[[4,0]]]],[[0,31,null,172751978641655,false,[[0,[0,1]]]]],[[0,null,false,null,343352428899467,[[0,21,null,0,false,false,true,841760785779679,false,[[0,[0,3]]]]],[[0,31,null,892747376681533,false,[[0,[1,1.2]]]]]]]]]],[0,null,false,null,594882902744155,[[-1,22,null,0,false,false,false,799888771450329,false]],[[18,29,null,255795452602287,false,[[1,[2,"HideAll"]],[13]]]]]]]]],[0,null,false,null,832359708821034,[[18,32,null,2,false,false,false,231833727056088,false,[[1,[2,"HideAll"]]]]],[[-1,33,null,656742220006975,false,[[5,[0,3]],[3,1]]],[-1,33,null,658746056700623,false,[[5,[0,4]],[3,0]]],[-1,33,null,999246614127048,false,[[5,[0,5]],[3,0]]],[-1,33,null,175947810478879,false,[[5,[0,6]],[3,0]]],[-1,33,null,966814488506098,false,[[5,[0,7]],[3,0]]],[-1,33,null,918551936042421,false,[[5,[0,8]],[3,0]]],[-1,33,null,828701944229879,false,[[5,[0,9]],[3,0]]],[-1,33,null,858389467469655,false,[[5,[0,10]],[3,0]]]],[[0,null,false,null,886908999198785,[[-1,30,null,0,true,false,false,667447424520275,false,[[4,0]]]],[[0,31,null,389762762671656,false,[[0,[0,1]]]]]]]],[0,null,false,null,945271136039663,[[18,32,null,2,false,false,false,176654090041426,false,[[1,[2,"ShowSettings"]]]]],[[-1,33,null,176128179254471,false,[[5,[0,3]],[3,0]]],[-1,33,null,155624652009751,false,[[5,[0,4]],[3,1]]],[-1,33,null,801469296886027,false,[[5,[0,5]],[3,0]]],[-1,33,null,411291875996744,false,[[5,[0,6]],[3,0]]],[-1,33,null,134989234400402,false,[[5,[0,7]],[3,1]]],[-1,33,null,193823574562830,false,[[5,[0,8]],[3,1]]],[-1,33,null,831827086769408,false,[[5,[0,9]],[3,1]]],[-1,33,null,370138196454280,false,[[5,[0,10]],[3,0]]]]],[0,null,false,null,670960873438713,[[18,32,null,2,false,false,false,850103761712928,false,[[1,[2,"ShowCredits"]]]]],[[-1,33,null,564276672739795,false,[[5,[0,3]],[3,0]]],[-1,33,null,930322067163226,false,[[5,[0,4]],[3,1]]],[-1,33,null,510222822510176,false,[[5,[0,5]],[3,1]]],[-1,33,null,517252076243978,false,[[5,[0,6]],[3,1]]],[-1,33,null,278708172347896,false,[[5,[0,7]],[3,0]]],[-1,33,null,274692724550537,false,[[5,[0,8]],[3,0]]],[-1,33,null,674255125991444,false,[[5,[0,9]],[3,0]]],[-1,33,null,671294554125984,false,[[5,[0,10]],[3,0]]]]],[0,null,false,null,830099097049156,[[18,32,null,2,false,false,false,728463148238469,false,[[1,[2,"ShowPlay"]]]]],[[-1,33,null,372349657833389,false,[[5,[0,3]],[3,0]]],[-1,33,null,305626802263084,false,[[5,[0,4]],[3,1]]],[-1,33,null,222865476633134,false,[[5,[0,5]],[3,0]]],[-1,33,null,643148281680027,false,[[5,[0,6]],[3,0]]],[-1,33,null,102880095179765,false,[[5,[0,7]],[3,0]]],[-1,33,null,939156922537003,false,[[5,[0,8]],[3,0]]],[-1,33,null,564418108681039,false,[[5,[0,9]],[3,0]]],[-1,33,null,102099363762646,false,[[5,[0,10]],[3,1]]]]],[0,null,false,null,122131665530519,[[17,23,null,1,false,false,false,114112741608828,false,[[3,0],[3,0],[4,4]]],[4,27,null,0,false,false,false,966429318518976,false]],[],[[0,null,true,null,415588888418075,[[-1,19,null,0,false,false,false,824493318245683,false,[[3,10]]],[-1,19,null,0,false,false,false,859758659744385,false,[[3,13]]]],[[19,34,null,249915559523820,false]]]]],[0,null,false,null,760098769438856,[[-1,35,null,0,false,false,false,952400784024767,false]],[[-1,36,null,523497278971302,false,[[11,"TitleScale"],[7,[23,"TitleAdd"]]]],[26,31,null,388219029189658,false,[[0,[23,"TitleScale"]]]]],[[0,null,false,null,205827788868243,[[-1,37,null,0,false,false,false,334432047639861,false,[[7,[23,"TitleScale"]],[8,3],[7,[1,0.8]]]]],[[-1,38,null,957623960442285,false,[[11,"TitleAdd"],[7,[1,0.005]]]]]],[0,null,false,null,978854688859669,[[-1,37,null,0,false,false,false,976203740874792,false,[[7,[23,"TitleScale"]],[8,5],[7,[0,1]]]]],[[-1,38,null,302749127020334,false,[[11,"TitleAdd"],[7,[1,-0.005]]]]]]]],[0,null,false,null,950059753975558,[[19,39,null,0,false,false,false,759234924927530,false,[[3,0]]]],[[19,14,null,275843510182720,false,[[3,1]]]]]]],["Settings Menu",[[0,null,false,null,877893070356298,[[-1,13,null,1,false,false,false,924955388441991,false]],[[21,40,null,590248520391674,false,[[0,[19,41,[[20,16,42,false,null]]]]]],[22,40,null,516968278446018,false,[[0,[19,41,[[20,16,43,false,null,[[2,"MainMenuMusic"]]]]]]]],[1,44,null,698427170934070,false,[[0,[0,1]]]]]],[0,null,false,null,292200291677790,[[21,45,null,1,false,false,false,116818096769655,false]],[[16,46,null,937705002726422,false,[[0,[19,41,[[20,21,47,false,null]]]]]]]],[0,null,false,null,179987397990844,[[22,45,null,1,false,false,false,529463352864946,false]],[[16,48,null,971861697089136,false,[[1,[2,"MainMenuMusic"]],[0,[19,41,[[20,22,47,false,null]]]]]]]],[0,null,false,null,846052522756737,[[1,49,null,1,false,false,false,354250409084670,false]],[],[[0,null,false,null,670188115715605,[[1,50,null,0,false,false,false,573719306726947,false,[[8,0],[0,[0,0]]]]],[[-1,51,null,544950865722327,false,[[3,0]]]]],[0,null,false,null,474008683320245,[[1,50,null,0,false,false,false,994487472061880,false,[[8,0],[0,[0,1]]]]],[[-1,51,null,692646355888390,false,[[3,1]]]]]]]]],["Loading Events",[[0,null,false,null,487580043278326,[[-1,13,null,1,false,false,false,383662561195685,false]],[[15,52,null,969410057183294,false,[[0,[0,24]]]]]],[0,null,false,null,399171819645039,[[15,53,null,0,false,false,false,615031831947974,false]],[[-1,54,null,240406389754983,false,[[6,"Main Menu"]]]]]]]],[],"media/",false,1280,720,4,true,true,true,"1.0.0.0",true,false,0,2,34,true,true,1,true,"Alien Wars",0,[]]}

diff --git a/offline.js b/offline.js
@@ -1,5 +1,5 @@
 {
-	"version": 1481054217,
+	"version": 1481055271,
 	"fileList": [
 		"data.js",
 		"c2runtime.js",
@@ -9,6 +9,7 @@
 		"images/player-sheet0.png",
 		"images/cursor-sheet0.png",
 		"images/title-sheet0.png",
+		"images/background-sheet0.png",
 		"media/the_freeharmonic_orchestra_-_08_-_unconquered_sun.m4a",
 		"media/the_freeharmonic_orchestra_-_08_-_unconquered_sun.ogg",
 		"icon-16.png",
